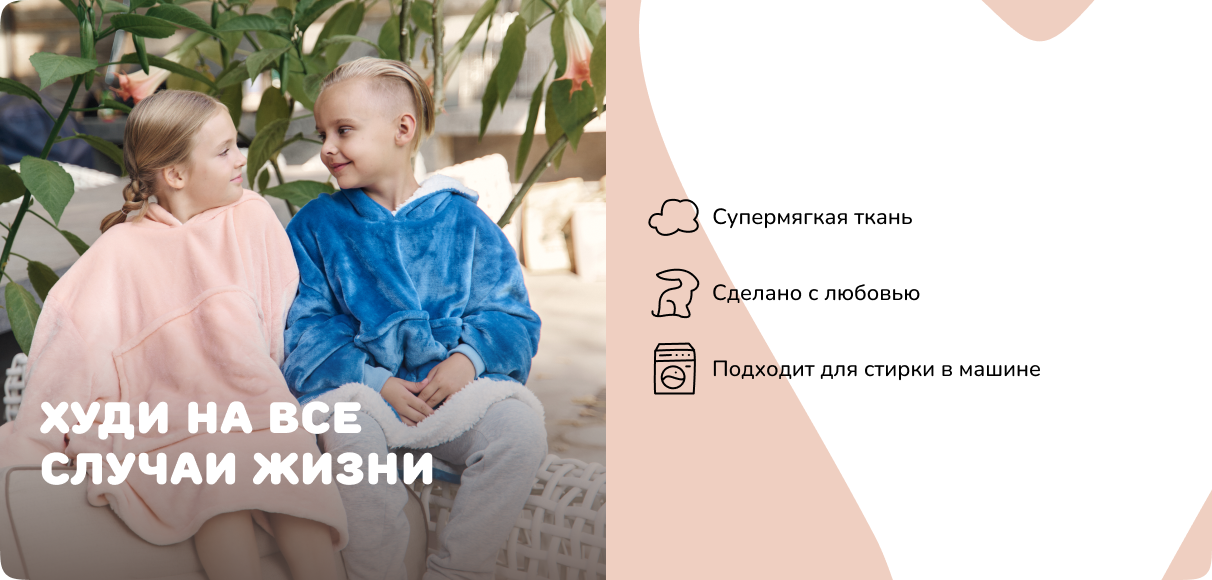
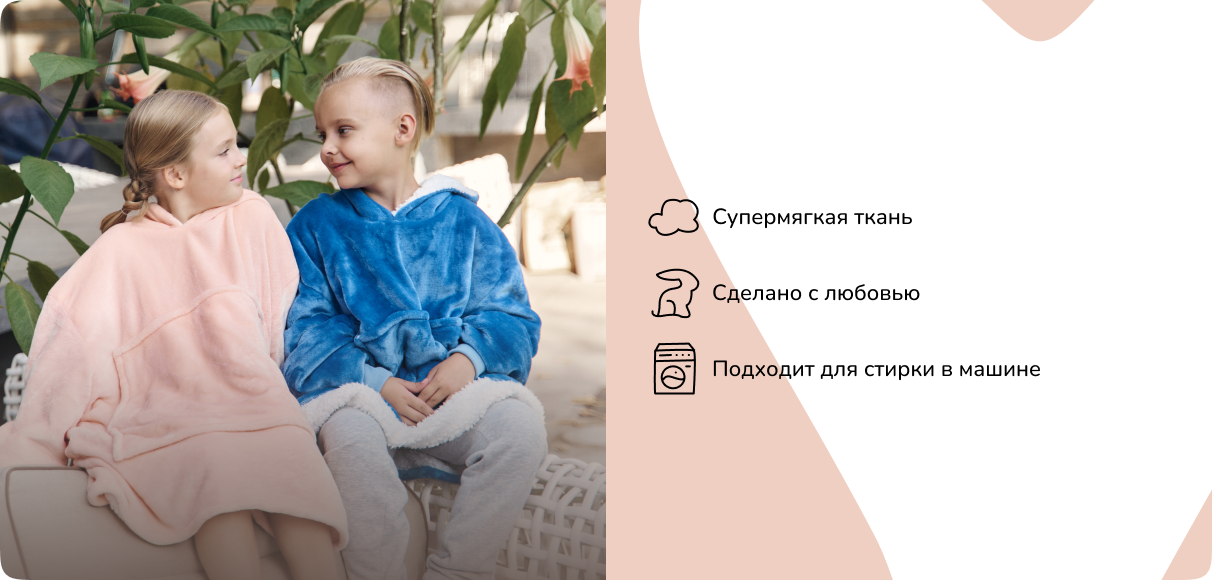
5

Changed region(s): [[0.0305, 0.6828, 0.3663, 0.8379]]

diff --git a/src/pages/Home1/HomeBannerSection.jsx b/src/pages/Home1/HomeBannerSection.jsx
@@ -1,82 +1,4 @@
-//
-// import { Text, Img, Slider } from "../../components";
-// import React, { useState, useEffect } from "react";
-//
-// export default function HomeBannerSection() {
-//     const [sliderState, setSliderState] = React.useState(0);
-//     const sliderRef = React.useRef(null);
-//
-//     const [isMobile, setIsMobile] = useState(window.innerWidth < 620);
-//
-//     useEffect(() => {
-//         // Обновляем состояние при изменении ширины экрана
-//         const handleResize = () => {
-//             setIsMobile(window.innerWidth < 620);
-//         };
-//
-//         window.addEventListener("resize", handleResize);
-//         return () => window.removeEventListener("resize", handleResize);
-//     }, []);
-//
-//     return (
-//         <>
-//             {/* home banner section */}
-//             <div className={`relative content-center self-stretch ${isMobile ? 'h-[400px]' : 'h-[36.25rem]'}`}>
-//                 <div className="MainSlider container-xs mx-auto flex w-full md:px-[1.25rem] relative z-10">
-//                     <Slider
-//                         autoPlay
-//                         autoPlayInterval={2000}
-//                         responsive={{ 0: { items: 1 }, 551: { items: 1 }, 1051: { items: 1 } }}
-//                         renderDotsItem={(props) => {
-//                             const isMobile = window.innerWidth < 620; // Проверка ширины экрана
-//
-//                             return (
-//                                 <div
-//                                     className={`inline-block h-[4px] ${
-//                                         isMobile ? "w-[80px]" : "w-[100px]"
-//                                     } rounded-full cursor-pointer mr-2 ${
-//                                         props.isActive ? "bg-white" : "bg-gray-400"
-//                                     }`}
-//                                 />
-//                             );
-//                         }}
-//                         activeIndex={sliderState}
-//                         onSlideChanged={(e) => {
-//                             setSliderState(e?.item);
-//                         }}
-//                         ref={sliderRef}
-//                         items={[...Array(3)].map((_, index) => (
-//                             <div
-//                                 key={index}
-//                                 className={`relative flex flex-col items-center rounded-[20px] overflow-hidden ${isMobile ? 'h-[400px]' : 'h-[36.25rem]'}`}
-//                             >
-//                                 {/* Фоновое изображение с обрезкой по ширине и масштабированием по высоте */}
-//                                 <div className="absolute inset-0 bg-[url('/images/img_banner_slider.png')] bg-cover bg-center z-0" />
-//
-//                                 {/* Градиентный слой поверх изображения */}
-//                                 <div className="absolute inset-0 bg-gradient-to-t from-[#5A4A43] to-transparent opacity-90 rounded-b-[20px] z-10 pointer-events-none max-w-[1212px] mx-auto" />
-//
-//                                 {/* Контент слайдера */}
-//                                 <div className={`relative z-20 flex flex-col items-center text-center w-full ${isMobile ? 'mt-10 gap-6' : 'mt-[6.13rem] gap-[11.25rem]'}`}>
-//                                     <Text
-//                                         size="1280_h1"
-//                                         as="p"
-//                                         className={`font-roundsblack mt-[28%] text-white ${isMobile ? 'text-2xl leading-snug text-left' : 'text-[2.75rem]'} font-normal tracking-[0.06rem] px-4`}
-//                                     >
-//                                         Создай свой уютный момент
-//                                     </Text>
-//                                 </div>
-//
-//
-//                             </div>
-//                         ))}
-//                     />
-//                 </div>
-//             </div>
-//         </>
-//     );
-// }
-//
+
 import { Text, Slider } from "../../components";
 import React, { useState, useEffect } from "react";
 
@@ -87,7 +9,6 @@ export default function HomeBannerSection() {
     const [isMobile, setIsMobile] = useState(window.innerWidth < 620);
 
     useEffect(() => {
-        // Обновляем состояние при изменении ширины экрана
         const handleResize = () => {
             setIsMobile(window.innerWidth < 620);
         };
@@ -96,59 +17,84 @@ export default function HomeBannerSection() {
         return () => window.removeEventListener("resize", handleResize);
     }, []);
 
+    const slides = [
+        // {
+        //     image: "/images/img_banner_slider.png",
+        //     text: "Создай свой уютный момент",
+        //     customTextStyles: "mb-[20vh] ml-auto mr-auto", // Без дополнительных стилей для первого слайда
+        // },
+        // {
+        //     image: "/images/img_slider_2.png",
+        //     text: "Худи на все\nслучаи жизни",
+        //     customTextStyles: "text-left px-4 whitespace-pre-line mt-[20vh] ml-[1rem]", // Специальные стили для второго слайда
+        // }
+        {
+            image: "/images/img_banner_slider.png",
+            text: "Создай свой уютный момент",
+            customTextStyles: `mb-[20vh] ml-auto mr-auto ${isMobile ? 'mt-[20vh] text-[2rem] ' : 'mt-[35vh] text-[3rem]'}`, // Условное применение отступа и размера текста
+        },
+        {
+            image: "/images/img_slider_2.png",
+            text: "Худи на все\nслучаи жизни",
+            customTextStyles: `text-left px-4 whitespace-pre-line ml-[1rem] ${isMobile ? 'mt-[20vh] text-[2rem]' : 'mt-[30vh] text-[3rem]'}`, // Условные стили для второго слайда
+        }
+    ];
+
     return (
-        <>
-            {/* home banner section */}
-            <div className={`relative content-center self-stretch ${isMobile ? 'h-[400px]' : 'h-[36.25rem]'}`}>
-                <div className="MainSlider container-xs mx-auto flex w-full md:px-[1.25rem] relative z-10">
-                    <Slider
-                        autoPlay
-                        autoPlayInterval={2000}
-                        responsive={{ 0: { items: 1 }, 551: { items: 1 }, 1051: { items: 1 } }}
-                        renderDotsItem={(props) => {
-                            const isMobile = window.innerWidth < 620; // Проверка ширины экрана
-
-                            return (
-                                <div
-                                    className={`inline-block h-[4px] ${
-                                        isMobile ? "w-[80px]" : "w-[100px]"
-                                    } rounded-full cursor-pointer mr-2 ${
-                                        props.isActive ? "bg-white" : "bg-gray-400"
-                                    }`}
-                                />
-                            );
-                        }}
-                        activeIndex={sliderState}
-                        onSlideChanged={(e) => {
-                            setSliderState(e?.item);
-                        }}
-                        ref={sliderRef}
-                        items={[...Array(3)].map((_, index) => (
+        <div className={`relative content-center self-stretch ${isMobile ? 'h-[400px] mt-[2rem]' : 'h-[36.25rem]'}`}>
+            <div className="MainSlider container-xs mx-auto flex w-full md:px-[1.25rem] relative z-10">
+                <Slider
+                    autoPlay
+                    autoPlayInterval={2000}
+                    responsive={{ 0: { items: 1 }, 551: { items: 1 }, 1051: { items: 1 } }}
+                    renderDotsItem={(props) => (
+                        <div
+                            className={`inline-block h-[4px] ${
+                                isMobile ? "w-[80px]" : "w-[100px]"
+                            } rounded-full cursor-pointer mr-2 ${
+                                props.isActive ? "bg-white" : "bg-gray-400"
+                            }`}
+                        />
+                    )}
+                    activeIndex={sliderState}
+                    onSlideChanged={(e) => setSliderState(e?.item)}
+                    ref={sliderRef}
+                    items={slides.map((slide, index) => (
+                        <div
+                            key={index}
+                            className={`relative flex flex-col items-center rounded-[20px] overflow-hidden ${isMobile ? 'h-[400px]' : 'h-[36.25rem]'}`}
+                        >
+                            {/* Фоновое изображение */}
                             <div
-                                key={index}
-                                className={`relative flex flex-col items-center rounded-[20px] overflow-hidden ${isMobile ? 'h-[400px]' : 'h-[36.25rem]'}`}
+                                className={`absolute inset-0 bg-cover bg-center bg-no-repeat z-0`}
+                                style={{ backgroundImage: `url(${slide.image})` }}
+                            />
+
+                            {/* Градиентный слой поверх изображения */}
+                            <div className="absolute inset-0 bg-gradient-to-t from-[#5A4A43] max-h-[70%] mt-[40%] to-transparent opacity-90 rounded-b-[20px] z-10 pointer-events-none max-w-[1212px] mx-auto" />
+
+                            {/* Контент слайдера */}
+                            <div
+                                className={`relative z-20 flex ${
+                                    index === 0 ? 'items-center' : 'items-start'
+                                } text-center w-full ${isMobile ? 'mt-10 gap-6' : 'mt-[6.13rem] gap-[11.25rem]'}`}
                             >
-                                {/* Фоновое изображение с contain и центрированием */}
-                                <div className="absolute inset-0 bg-[url('/images/img_banner_slider.png')] bg-contain bg-center bg-no-repeat z-0" />
-
-                                {/* Градиентный слой поверх изображения */}
-                                <div className="absolute inset-0 bg-gradient-to-t from-[#5A4A43] max-h-[70%] mt-[40%] to-transparent opacity-90 rounded-b-[20px] z-10 pointer-events-none max-w-[1212px] mx-auto" />
-
-                                {/* Контент слайдера */}
-                                <div className={`relative z-20 flex flex-col items-center text-center w-full ${isMobile ? 'mt-10 gap-6' : 'mt-[6.13rem] gap-[11.25rem]'}`}>
-                                    <Text
-                                        size="1280_h1"
-                                        as="p"
-                                        className={`font-roundsblack  text-white ${isMobile ? 'text-2xl leading-snug text-left mt-[40%]' : 'mt-[28%] text-[2.75rem]'} font-normal tracking-[0.06rem] px-4`}
-                                    >
-                                        Создай свой уютный момент
-                                    </Text>
-                                </div>
+                                <Text
+                                    size="1280_h1"
+                                    as="p"
+                                    className={`font-roundsblack text-white ${
+                                        isMobile ? 'text-2xl leading-snug' : 'text-[2.75rem]'
+                                    } font-normal tracking-[0.06rem] px-4 ${
+                                        slide.customTextStyles
+                                    }`}
+                                >
+                                    {slide.text}
+                                </Text>
                             </div>
-                        ))}
-                    />
-                </div>
+                        </div>
+                    ))}
+                />
             </div>
-        </>
+        </div>
     );
 }

diff --git a/src/pages/Home1/HomeBannerSection1.jsx b/src/pages/Home1/HomeBannerSection1.jsx
@@ -1,82 +1,4 @@
-//
-// import { Text, Img, Slider } from "../../components";
-// import React, { useState, useEffect } from "react";
-//
-// export default function HomeBannerSection() {
-//     const [sliderState, setSliderState] = React.useState(0);
-//     const sliderRef = React.useRef(null);
-//
-//     const [isMobile, setIsMobile] = useState(window.innerWidth < 620);
-//
-//     useEffect(() => {
-//         // Обновляем состояние при изменении ширины экрана
-//         const handleResize = () => {
-//             setIsMobile(window.innerWidth < 620);
-//         };
-//
-//         window.addEventListener("resize", handleResize);
-//         return () => window.removeEventListener("resize", handleResize);
-//     }, []);
-//
-//     return (
-//         <>
-//             {/* home banner section */}
-//             <div className={`relative content-center self-stretch ${isMobile ? 'h-[400px]' : 'h-[36.25rem]'}`}>
-//                 <div className="MainSlider container-xs mx-auto flex w-full md:px-[1.25rem] relative z-10">
-//                     <Slider
-//                         autoPlay
-//                         autoPlayInterval={2000}
-//                         responsive={{ 0: { items: 1 }, 551: { items: 1 }, 1051: { items: 1 } }}
-//                         renderDotsItem={(props) => {
-//                             const isMobile = window.innerWidth < 620; // Проверка ширины экрана
-//
-//                             return (
-//                                 <div
-//                                     className={`inline-block h-[4px] ${
-//                                         isMobile ? "w-[80px]" : "w-[100px]"
-//                                     } rounded-full cursor-pointer mr-2 ${
-//                                         props.isActive ? "bg-white" : "bg-gray-400"
-//                                     }`}
-//                                 />
-//                             );
-//                         }}
-//                         activeIndex={sliderState}
-//                         onSlideChanged={(e) => {
-//                             setSliderState(e?.item);
-//                         }}
-//                         ref={sliderRef}
-//                         items={[...Array(3)].map((_, index) => (
-//                             <div
-//                                 key={index}
-//                                 className={`relative flex flex-col items-center rounded-[20px] overflow-hidden ${isMobile ? 'h-[400px]' : 'h-[36.25rem]'}`}
-//                             >
-//                                 {/* Фоновое изображение с обрезкой по ширине и масштабированием по высоте */}
-//                                 <div className="absolute inset-0 bg-[url('/images/img_banner_slider.png')] bg-cover bg-center z-0" />
-//
-//                                 {/* Градиентный слой поверх изображения */}
-//                                 <div className="absolute inset-0 bg-gradient-to-t from-[#5A4A43] to-transparent opacity-90 rounded-b-[20px] z-10 pointer-events-none max-w-[1212px] mx-auto" />
-//
-//                                 {/* Контент слайдера */}
-//                                 <div className={`relative z-20 flex flex-col items-center text-center w-full ${isMobile ? 'mt-10 gap-6' : 'mt-[6.13rem] gap-[11.25rem]'}`}>
-//                                     <Text
-//                                         size="1280_h1"
-//                                         as="p"
-//                                         className={`font-roundsblack mt-[28%] text-white ${isMobile ? 'text-2xl leading-snug text-left' : 'text-[2.75rem]'} font-normal tracking-[0.06rem] px-4`}
-//                                     >
-//                                         Создай свой уютный момент
-//                                     </Text>
-//                                 </div>
-//
-//
-//                             </div>
-//                         ))}
-//                     />
-//                 </div>
-//             </div>
-//         </>
-//     );
-// }
-//
+
 import { Text, Slider } from "../../components";
 import React, { useState, useEffect } from "react";
 
@@ -129,7 +51,7 @@ export default function HomeBannerSection1() {
                                 className={`relative flex flex-col items-center rounded-[20px] overflow-hidden ${isMobile ? 'h-[400px]' : 'h-[36.25rem]'}`}
                             >
                                 {/* Фоновое изображение с contain и центрированием */}
-                                <div className="absolute inset-0 bg-[url('/images/img_slider_2.png')] bg-contain bg-center bg-no-repeat z-0" />
+                                <div className="absolute inset-0 bg-[url('/images/img_slider_2.png')] bg-cover bg-center bg-no-repeat z-0" />
 
                                 {/* Градиентный слой поверх изображения */}
                                 <div className="absolute inset-0 bg-gradient-to-t from-[#5A4A43] max-h-[70%] mt-[40%] to-transparent opacity-90 rounded-b-[20px] z-10 pointer-events-none max-w-[1212px] mx-auto" />

diff --git a/src/components/ProductDetails/index.jsx b/src/components/ProductDetails/index.jsx
@@ -1,5 +1,5 @@
 import { Text, Heading, Img } from "./..";
-import React from "react";
+import React, {useEffect, useState} from "react";
 
 export default function ProductDetails({
                                            prop = "Хит",
@@ -19,14 +19,38 @@ export default function ProductDetails({
         // Переход на ссылку
         window.location.href = url;
     };
+    const [isMobile, setIsMobile] = useState(window.innerWidth < 620);
+
+    useEffect(() => {
+        const handleResize = () => {
+            setIsMobile(window.innerWidth < 620);
+        };
+
+        window.addEventListener("resize", handleResize);
+        return () => window.removeEventListener("resize", handleResize);
+    }, []);
     return (
         <div {...props} className={`${props.className} flex flex-col items-center w-full gap-[1.00rem]`}
              onClick={handleClick} // Добавляем обработчик клика
         >
+            <div style={{
+                position: "absolute",
+                top: "0",
+                left: "0",
+                maxHeight: "540px",
+                borderRadius: "20px",
+                zIndex: "0",
+                width: '100%',
+                height: '100%',
+                background: "#F1F1F1"
+            }}>
+
+            </div>
             <div
-                className={`flex h-[33.75rem] flex-col items-start self-stretch rounded-[20px]  bg-cover bg-center bg-no-repeat px-[0.88rem] py-[0.63rem] sm:h-auto`}
-                style={{ backgroundImage: `url(${img})`, minHeight: "540px" }}
+                className={`flex h-[33.75rem] flex-col items-start self-stretch rounded-[20px] ${isMobile ? 'bg-contain' : 'bg-contain'}  bg-cover bg-center bg-no-repeat px-[0.88rem] py-[0.63rem] sm:h-auto`}
+                style={{backgroundImage: `url(${img})`, minHeight: "540px", zIndex: "2"}}
             >
+
                 <div className="flex gap-[0.38rem] self-stretch">
                     <div className="h-[0.38rem] w-full rounded-[3px] bg-white"/>
                     <div className="h-[0.38rem] w-full rounded-[3px] bg-60__white_for_sliders"/>

diff --git a/src/pages/Home1/index.jsx b/src/pages/Home1/index.jsx
@@ -5,7 +5,6 @@ import Footer from "../../components/Footer";
 import Header from "../../components/Header";
 import ProductDetails from "../../components/ProductDetails";
 import HomeBannerSection from "./HomeBannerSection";
-import HomeBannerSection1 from "./HomeBannerSection1";
 
 import { Suspense } from "react";
 // import { useNavigate } from 'react-router-dom';
@@ -90,7 +89,6 @@ export default function Home1Page() {
                     <div className="flex flex-col items-center gap-[5.63rem] md:gap-[4.19rem] sm:gap-[2.81rem]">
                         {/* home banner section */}
                         <HomeBannerSection/>
-                        <HomeBannerSection1/>
 
                         <div className="container-xs md:px-[1.25rem]">
                             <div className="grid grid-cols-2 justify-center gap-[1.88rem] md:grid-cols-1">
